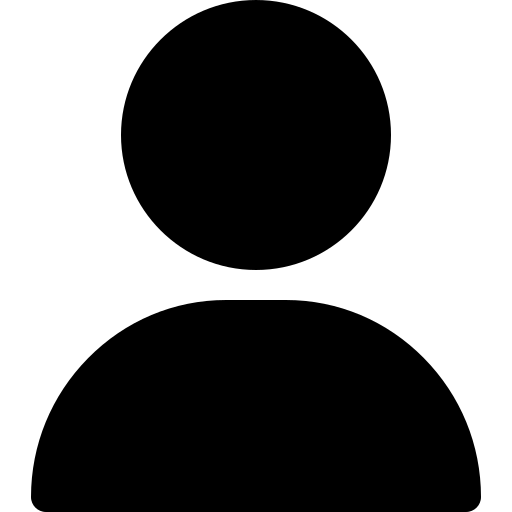
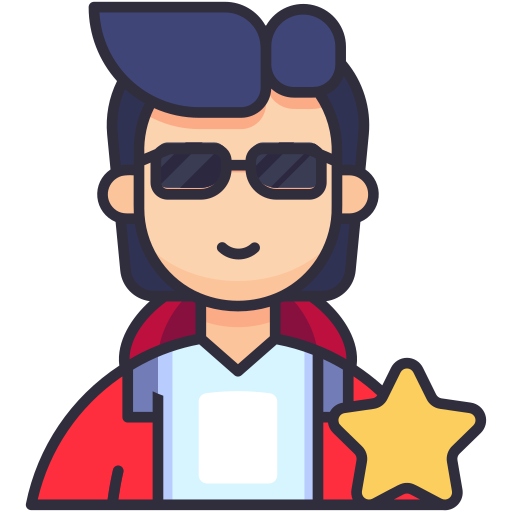
feat : ticket page

diff --git a/frontend/src/pages/TicketPage.tsx b/frontend/src/pages/TicketPage.tsx
@@ -1,0 +1,129 @@
+import { useParams } from "react-router-dom";
+import { useTicket } from "../hooks/useTicket";
+import { Check } from "lucide-react";
+
+function formatDate(iso: string) {
+  return new Date(iso).toLocaleDateString("en-IN", {
+    weekday: "short",
+    day: "2-digit",
+    month: "short",
+    year: "numeric",
+  });
+}
+
+function formatTime(iso: string) {
+  return new Date(iso).toLocaleTimeString("en-IN", {
+    hour: "2-digit",
+    minute: "2-digit",
+  });
+}
+
+export default function TicketPage() {
+  const { ticketId } = useParams();
+  const { data, isLoading, isError } = useTicket(ticketId || "");
+
+  if (!ticketId)
+    return <div className="p-6 text-red-500">No ticket ID provided</div>;
+  if (isLoading)
+    return <div className="p-6 text-neutral-300">Loading ticket…</div>;
+  if (isError || !data)
+    return <div className="p-6 text-red-500">Failed to load ticket</div>;
+
+  const ticket = data.data;
+
+  return (
+    <div className="min-h-screen flex items-center justify-center p-4">
+      <div className="relative w-full max-w-md text-white rounded-3xl shadow-[0_20px_80px_rgba(0,0,0,0.7)] overflow-hidden">
+        {/* Poster */}
+        <div className="relative bg-black">
+          <img
+            src={ticket.movie.poster}
+            alt={ticket.movie.title}
+            className="w-full max-h-[220px] object-contain mx-auto"
+          />
+          <div className="absolute inset-x-0 bottom-0 h-24 bg-gradient-to-t from-neutral-900 to-transparent" />
+        </div>
+
+        {/* Movie Info */}
+        <div className="relative px-6 pt-4">
+          <h1 className="text-2xl font-extrabold tracking-tight">
+            {ticket.movie.title}
+          </h1>
+
+          <p className="text-sm text-neutral-400 mt-1">
+            {ticket.cinema.name} • {ticket.cinema.location}
+          </p>
+
+          <div className="absolute left-0 top-1/2 translate-y-1/2 w-4 h-8 bg-[rgba(0,0,0,0.4)] rounded-r-full" />
+          <div className="absolute right-0 top-1/2 translate-y-1/2 w-4 h-8 bg-[rgba(0,0,0,0.4)] rounded-l-full" />
+        </div>
+
+        {/* Divider */}
+        <div className="my-5 border-t border-dashed border-neutral-700" />
+
+        {/* Show Details */}
+        <div className="px-6 grid grid-cols-2 gap-4 text-sm">
+          <Info label="Date" value={formatDate(ticket.show.showTime)} />
+          <Info
+            label="Time"
+            value={`${formatTime(ticket.show.showTime)} – ${formatTime(ticket.show.endTime)}`}
+          />
+          <Info label="Screen" value={ticket.show.screen} />
+
+          <div className="bg-neutral-800/40 rounded-xl p-3">
+            <p className="text-neutral-400 text-xs mb-2">Seats</p>
+            <div className="flex flex-wrap gap-1">
+              {ticket.seats.map((s) => (
+                <span
+                  key={s.seatName}
+                  className={`px-2 py-0.5 rounded-md bg-neutral-700 text-xs font-semibold`}
+                >
+                  {s.seatName}
+                </span>
+              ))}
+            </div>
+          </div>
+        </div>
+
+        {/* Divider */}
+        <div className="my-5 border-t border-dashed border-neutral-700" />
+
+        {/* Footer */}
+        <div className="px-6 pb-6 flex items-center justify-between">
+          <div>
+            <p className="text-xs text-neutral-400">Total Paid</p>
+            <p className="text-2xl font-bold">₹{ticket.totalPrice}</p>
+            <p className="flex items-center gap-x-0.5">
+              <p className="text-xs font-semibold text-green-500 uppercase tracking-wide">
+                {ticket.status}
+                <Check
+                  className="inline-block ml-1 mb-0.5 border border-green-500 rounded-full py-0.5"
+                  size={16}
+                />
+              </p>
+            </p>
+          </div>
+
+          {/* QR */}
+          <div className="h-20 w-20 rounded-xl bg-white p-2 flex items-center justify-center">
+            <img
+              src={`https://api.qrserver.com/v1/create-qr-code/?size=150x150&data=${ticket.ticketId}`}
+              alt="QR code"
+              className="h-full w-full object-contain"
+            />
+          </div>
+        </div>
+      </div>
+    </div>
+  );
+}
+
+/* Small helper */
+function Info({ label, value }: { label: string; value: string }) {
+  return (
+    <div className="bg-neutral-800/30 rounded-xl p-3">
+      <p className="text-neutral-400 text-xs">{label}</p>
+      <p className="font-medium mt-0.5">{value}</p>
+    </div>
+  );
+}

diff --git a/frontend/src/App.tsx b/frontend/src/App.tsx
@@ -7,6 +7,7 @@ import MovieShows from "./pages/MovieShows";
 import MovieShowSeats from "./pages/MovieShowSeats";
 import Login from "./pages/Login";
 import Signup from "./pages/SignUp";
+import TicketPage from "./pages/TicketPage";
 
 function App() {
   return (
@@ -23,13 +24,11 @@ function App() {
             <Route path="/movies/:movieId/:city" element={<MovieDetail />} />
             <Route path="/movies/:movieId/shows" element={<MovieShows />} />
             <Route path="/show/:showId" element={<MovieShowSeats />} />
-            <Route
-              path="/booking-success/:ticketId"
-              element={
-                <h1>Booking Success (later will create api from backend)</h1>
-              }
-            />
           </Route>
+        </Route>
+
+        <Route element={<ProtectedRoute />}>
+          <Route path="/booking-success/:ticketId" element={<TicketPage />} />
         </Route>
 
         <Route path="*" element={<HomePage />} />

diff --git a/frontend/src/types/ticket.type.ts b/frontend/src/types/ticket.type.ts
@@ -1,0 +1,41 @@
+export interface Movie {
+  title: string;
+  poster: string;
+  runtime: number;
+  genres: string[];
+}
+
+export interface Cinema {
+  name: string;
+  location: string;
+}
+
+export interface Show {
+  screen: string;
+  showTime: string; 
+  endTime: string;  
+}
+
+export interface Seat {
+  seatName: string;
+  row: string;
+  number: number;
+  type: "regular" | "premium" | "vip";
+}
+
+export interface TicketData {
+  ticketId: string;
+  movie: Movie;
+  cinema: Cinema;
+  show: Show;
+  seats: Seat[];
+  totalPrice: number;
+  status: "CONFIRMED" | "CANCELLED" | "PENDING";
+  bookedAt: string; 
+}
+
+export interface TicketResponse {
+  success: boolean;
+  message: string;
+  data: TicketData;
+}

diff --git a/frontend/src/hooks/useTicket.ts b/frontend/src/hooks/useTicket.ts
@@ -1,0 +1,12 @@
+import { useQuery } from "@tanstack/react-query";
+import type { TicketResponse } from "../types/ticket.type";
+import { fetchTicketById } from "../api/ticket.api";
+
+export const useTicket = (ticketId: string) => {
+  return useQuery<TicketResponse>({
+    queryKey: ["ticket", ticketId],
+    queryFn: () => fetchTicketById(ticketId),
+    enabled: !!ticketId, // prevents running if undefined
+    staleTime: 1000 * 60 * 5, // 5 minutes
+  });
+};

diff --git a/frontend/src/api/ticket.api.ts b/frontend/src/api/ticket.api.ts
@@ -1,0 +1,9 @@
+import { axiosInstance } from "../lib/axiosInstance";
+import type { TicketResponse } from "../types/ticket.type";
+
+export const fetchTicketById = async (
+  ticketId: string,
+): Promise<TicketResponse> => {
+  const { data } = await axiosInstance.get<TicketResponse>(`/tickets/${ticketId}`);
+  return data;
+};
